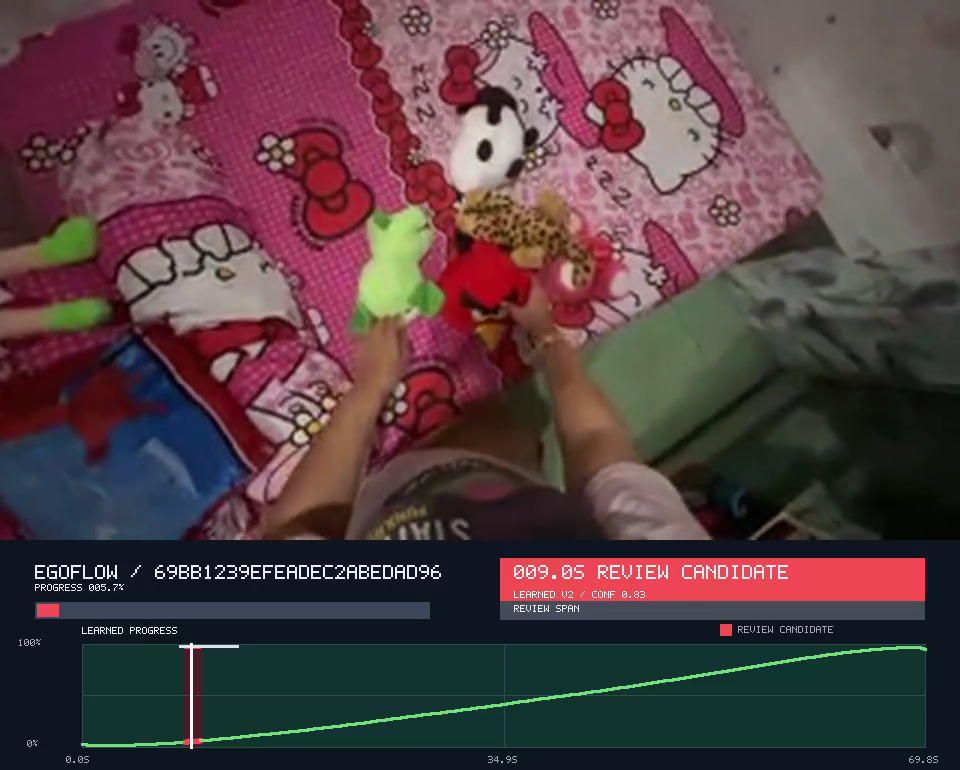
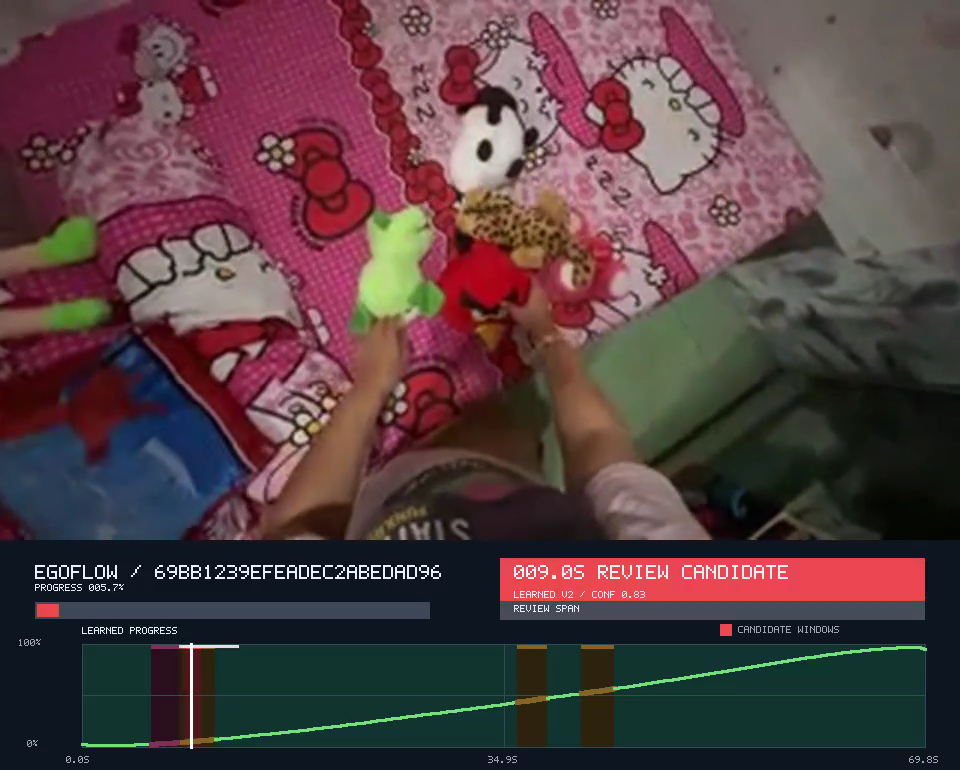
Polish README and source-aware hero result

Changed region(s): [[0.5312, 0.8416, 0.6562, 0.9662], [0.1562, 0.8104, 0.25, 0.9974], [0.5312, 0.7169, 0.5625, 0.7792]]

diff --git a/README.md b/README.md
@@ -4,6 +4,10 @@ EgoFlow audits long-horizon egocentric demonstrations by learning coarse task
 progress and surfacing hesitation, regression, recovery, and abandonment windows
 for human review.
 
+**Input:** long egocentric video · **Output:** dense progress, completion score,
+and short review windows · **Scale:** 18 episodes / 25 minutes · **Training:**
+frozen visual features with small temporal heads on Modal.
+
 > **Headline result:** a self-supervised hand-dynamics model trained on 12 whole
 > episodes flags the held-aside Angry Bird review moment at 8.433–9.833 seconds
 > (14.42 robust MAD), inside the human 8–13 second label. The full review index
@@ -18,7 +22,7 @@ Post-prediction review found one correct, two ambiguous, and two incorrect.
 flowchart LR
     A["EgoVerse video<br/>+ annotations when available"] --> B["Frozen vision + language<br/>DINOv3 / Qwen3"]
     B -. "public-MP4 fallback:<br/>DINOv2 + task text" .-> C["2-layer BiGRU<br/>temporal progress model"]
-    C --> D["Coarse progress + centered<br/>progress-rate residual"]
+    C --> D["Dense coarse progress<br/>+ episode completion"]
     D --> E["Sparse review candidates<br/>regress · recover · hesitate · abandon"]
     A -. "specialized v2" .-> H["2D hand geometry<br/>position · aperture · velocity"]
     H --> I["self-supervised GRU<br/>expected hand dynamics"]
@@ -26,12 +30,12 @@ flowchart LR
     E --> F["Training-data quality signal<br/>+ human review queue"]
 ```
 
-![EgoFlow demonstration review dashboard](hackathon/egoflow/results/hero/dashboard-preview.png)
+![EgoFlow scored Angry Bird demonstration with learned progress and candidate windows](hackathon/egoflow/results/hero/angry-bird-normalized-human-vs-model.png)
 
-The neural model learns the progress representation. The centered rate residual
-and event motifs are derived from learned progress and, where disclosed, frozen
-visual dynamics. Experimental hand geometry is separately attributed. Human
-timestamp labels are validation—not training targets.
+Two neural heads are trained: a temporal progress model and a self-supervised
+hand-dynamics predictor. Event motifs may also use disclosed visual or geometric
+evidence; every interval retains its detector source. Human timestamp labels are
+validation—not training targets.
 
 ## Why
 
@@ -57,18 +61,21 @@ coarse progress**, not hierarchical semantic progress.
 
 ## Hesitation / Recovery Detection
 
-The output separates three evidence sources:
+The output keeps its evidence sources separate:
 
 - **LEARNED:** coarse progress from the BiGRU. The visualization centers its rate
   against a five-second rolling-median expectation. The presentation flips the
   sign to `(expected_rate - actual_rate) / MAD(actual_rate)`, so suspicious
   slowdowns rise upward while faster-than-expected motion falls downward.
+- **LEARNED INTERACTION:** a separate two-layer GRU learns to predict the next
+  2D hand state from position, aperture, and velocity. Robust prediction surprise
+  creates sparse interaction-deviation candidates without timestamp supervision.
 - **DERIVED:** sparse regression, hesitation, recovery, and abandonment
   *candidates* may combine learned progress deviations with
   frozen-DINO visual slowdown or loop-back evidence. The UI deliberately does not
   equate low progress rate with a human-semantic “stall” or positive rate with
   productive work.
-- **EXPERIMENTAL HAND V2:** video-only MediaPipe palm centers, hand aperture, and
+- **HAND-GEOMETRY BASELINE:** video-only MediaPipe palm centers, hand aperture, and
   redirection geometry propose `ABORTED REACH?` windows while excluding stationary
   waiting, clear close/open grasp cycles, and camera-coupled bimanual motion. This
   lane is not part of the frozen metrics. A validation-tuned variant produces 90
@@ -78,11 +85,11 @@ The output separates three evidence sources:
   hesitation/abandon labels enter the reported comparison, while one broad `other`
   span is excluded.
 
-Every proposed event records its detector as
-`learned_progress_normalized`,
-`hybrid_learned_progress_visual_dynamics`, or `frozen_visual_dynamics`. EgoFlow is
-therefore presented as a high-recall review queue, not a production-ready event
-classifier.
+Every proposed event records its detector, including
+`learned_progress_normalized`, `learned_hand_dynamics_v2`,
+`hybrid_learned_progress_visual_dynamics`, `frozen_visual_dynamics`, or
+`video_hand_geometry_v1`. EgoFlow is therefore presented as a review and
+data-curation system, not a production-ready behavioral classifier.
 
 ## Distributed Pipeline
 
@@ -195,8 +202,10 @@ open hackathon/egoflow/results/presentation/index.html
 ```
 
 Add `--video-dir`, `--hand-events-dir`, and `--interaction-events-dir` to link
-local videos and show the experimental layers. Add `--slice-dir DIR` to export
-the ≥10-second clean spans later; source videos and generated slices stay ignored.
+local videos. A private research view can add `--include-research-events`; the
+public presentation remains learned-v2 plus reviewed spans. Add `--slice-dir DIR`
+to export ≥10-second clean spans later; source videos and generated slices stay
+ignored.
 
 Episode selection is in
 [`hackathon/egoflow/episode_selection.csv`](hackathon/egoflow/episode_selection.csv),
@@ -224,8 +233,8 @@ small-sample audit, not a population estimate.
 - The manual evaluation is tiny, same-set, and covers only seven episodes.
 - Hesitation is inherently ambiguous; slowdown can be careful productive motion.
 - Progress-rate bins are not action semantics. A low rate may be careful productive
-  manipulation, so scored videos show the numerical rate instead of claiming
-  `STALL`/`PRODUCTIVE` on ordinary frames.
+  manipulation, so scored videos remain neutral on ordinary frames instead of
+  claiming `STALL` or `PRODUCTIVE`.
 - Public MP4s lack the dense semantic annotations available in private EgoVerse
   Zarr data, so this run cannot demonstrate hierarchical local/global progress.
 - The progress ranking metric is close to a trivial time-fraction baseline, and
@@ -235,8 +244,9 @@ small-sample audit, not a population estimate.
   (0/3); synthetic robustness is not a learned-reward claim.
 - Frozen-visual heuristics contribute many event proposals (16 unmatched in the
   reviewed subset); they are disclosed separately from learned progress.
-- The centered residual is a visualization of rate deviation, not a hesitation
-  classifier. It remains near zero during the human 8–13 s Angry Bird span.
+- The centered residual is retained as an analysis diagnostic, not a hesitation
+  classifier. The presentation overlay instead shows one progress curve with
+  sparse, source-aware candidate bands.
 - A separate self-supervised two-layer GRU now learns expected 2D hand dynamics
   from 12 training episodes. The selected 32-unit model flags 8.433–9.833 s in
   Angry Bird validation at 14.42 MAD surprise. This is a learned interaction
